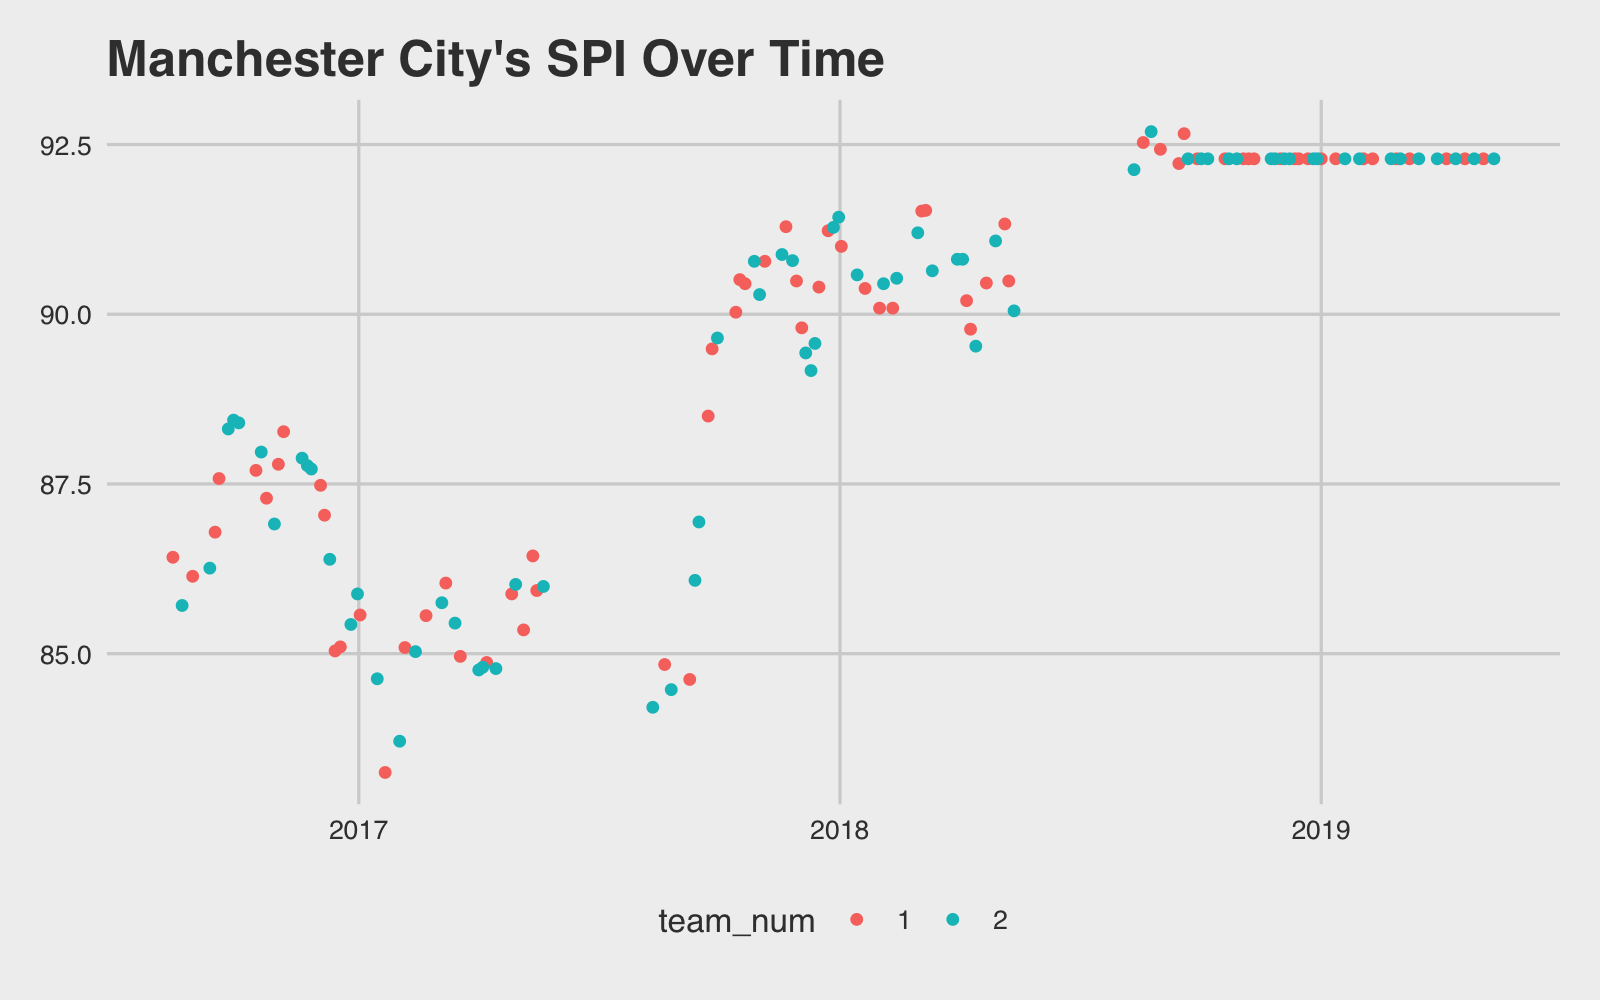
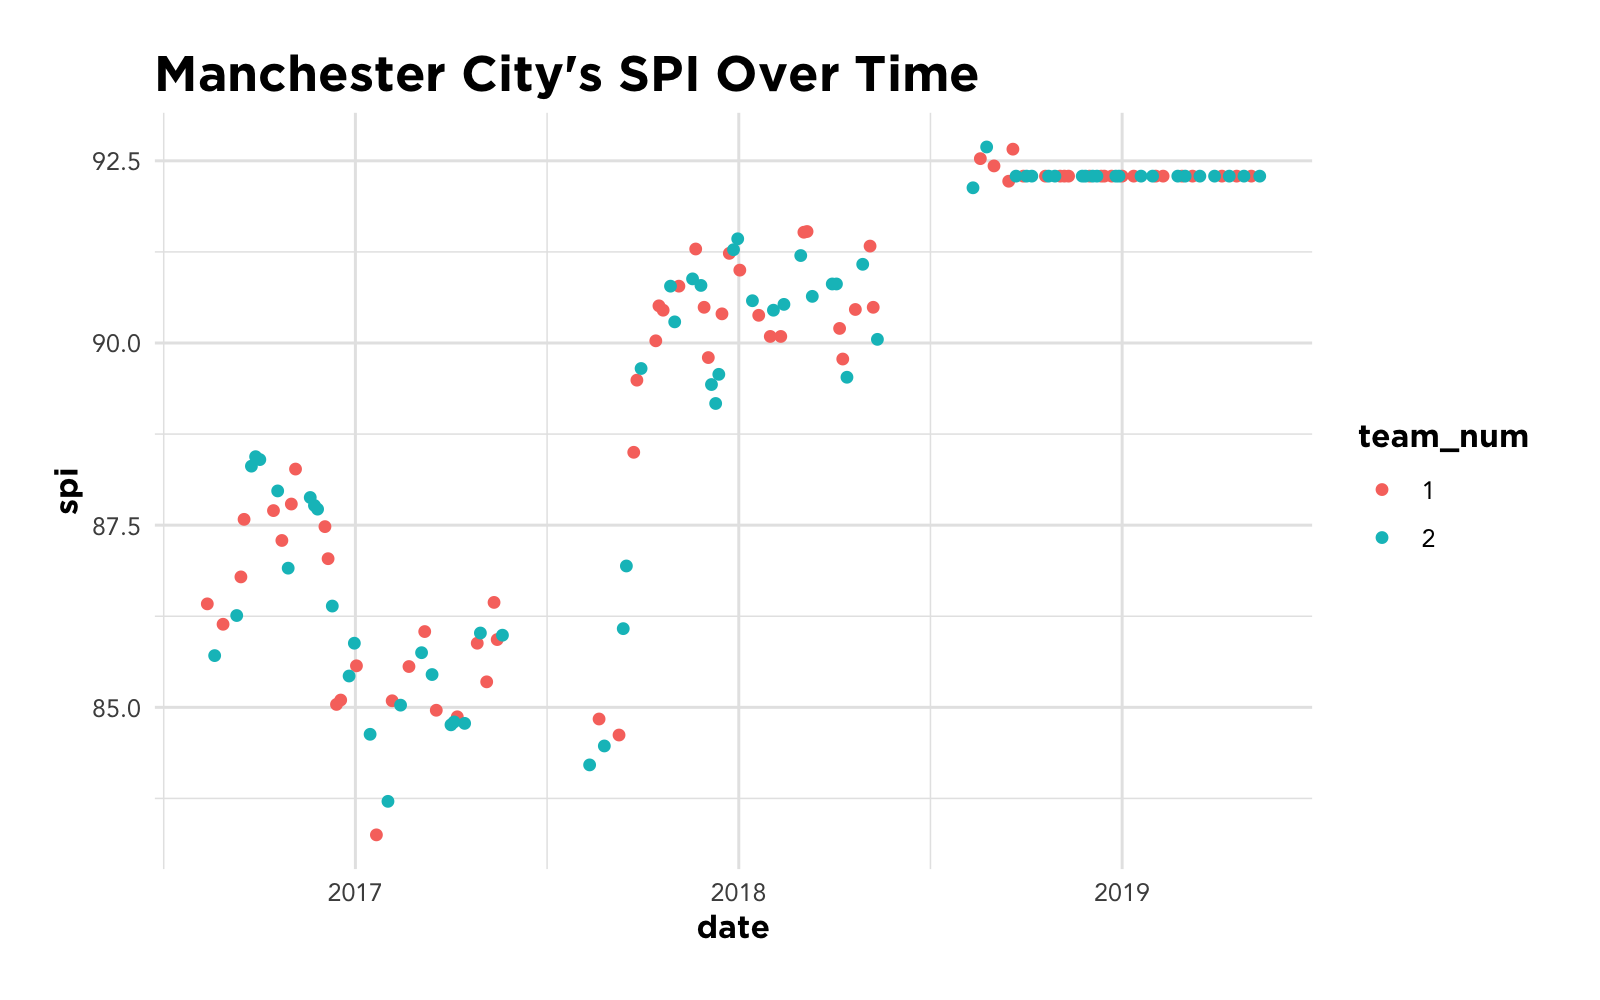
identifying under and overperformers

diff --git a/doc/matches.md b/doc/matches.md
@@ -9,6 +9,7 @@ library(tidymodels)
 library(expappr)
 library(ggthemes)
 library(lubridate)
+library(ggrepel)
 
 source("munge/helpers.R")
 ```
@@ -115,7 +116,7 @@ spi_matches %>%
   filter(team_num == spi_num, team == "Manchester City") %>% 
   ggplot(aes(date, spi)) +
   geom_point(aes(color = team_num)) +
-  theme_fivethirtyeight() +
+  theme_expapp() +
   ggtitle("Manchester City's SPI Over Time")
 ```
 
@@ -160,32 +161,23 @@ Given the nastiness cleaning with team numbers above, I'll probably want to crea
 
 
 ```r
-these_cols <- c("spi", "prob", "proj_score", "importance", "score", "xg", "nsxg", "adj_score")
+home_teams <- spi_matches %>%
+  select(-contains("2")) %>% 
+  mutate(home = 1)
 
-home_teams <- spi_matches %>% 
-  gather(key, val,team1:adj_score2) %>% 
-  mutate(team_num = str_remove_all(key, "[^0-9]"),
-         key_adj = str_remove_all(key, "[0-9]")) %>% 
-  filter(team_num == 1) %>% 
-  select(-team_num, -key) %>% 
-  spread(key_adj, val) %>% 
-  mutate(home = 1) %>% 
-  select(match_id, date, league, league_id, team, home, spi, prob, proj_score, importance, score, xg, nsxg, adj_score) %>% 
-  mutate_at(these_cols, as.double) %>% 
-  mutate(score = as.integer(score))
+names(home_teams) <- names(home_teams) %>% str_remove("[0-9]")
 
-away_teams <- spi_matches %>% 
-  gather(key, val,team1:adj_score2) %>% 
-  mutate(team_num = str_remove_all(key, "[^0-9]"),
-         key_adj = str_remove_all(key, "[0-9]")) %>% 
-  filter(team_num == 2) %>% 
-  select(-team_num, -key) %>% 
-  spread(key_adj, val) %>% 
-  mutate(home = 0) %>% 
-  select(match_id, date, league, league_id, team, home, spi, prob, proj_score, importance, score, xg, nsxg, adj_score) %>% 
-  mutate_at(these_cols, as.double) %>% 
-  mutate(score = as.integer(score))
+home_teams <- home_teams %>%
+  select(match_id, date, league, league_id, team, home, spi, prob, proj_score, importance, score, xg, nsxg, adj_score)
 
+away_teams <- spi_matches %>%
+  select(-contains("1")) %>% 
+  mutate(home = 0)
+
+names(away_teams) <- names(away_teams) %>% str_remove("[0-9]")
+
+away_teams <- away_teams %>%
+  select(match_id, date, league, league_id, team, home, spi, prob, proj_score, importance, score, xg, nsxg, adj_score)
 
 spi_matches_combined <- comb_home_away(home_teams, away_teams)
 
@@ -196,7 +188,7 @@ spi_matches %>%
   count(year, month) %>% 
   ggplot(aes(month, n)) +
   geom_col() +
-  theme_fivethirtyeight() +
+  theme_expapp() +
   ggtitle("Total Matches by Month") +
   scale_y_continuous(labels = scales::comma, name = "Num Matches")
 ```
@@ -318,11 +310,104 @@ season_results %>%
   ggtitle("Winning Team Margin of Victory by Season") +
   ylab("Margin of Victory - Points") + 
   xlab("Team") +
-  theme_fivethirtyeight() +
+  theme_expapp() +
   scale_fill_discrete(name = "In big league?")
 ```
 
 ![plot of chunk big_leagues](../graphs/matches//big_leagues-1.png)
+
+```r
+matches_past %>% 
+  group_by(league, season, home) %>% 
+  summarise(matches_played = n_distinct(match_id),
+            med_win_prob = median(prob),
+            mean_win_prob = mean(prob)) %>% 
+  filter(home == 1, matches_played > 25) %>% select(-home) %>% 
+  mutate(league_season = paste(league, season)) %>% 
+  ggplot(aes(matches_played, med_win_prob)) +
+  geom_jitter(aes(color = season),size = 5, alpha = 0.7) +
+  xlab("Matches Played") +
+  ylab("Median Home Win %") +
+  ggtitle("Expected Home Team Win Probability by Season") +
+  theme_expapp() +
+  scale_y_continuous(labels = scales::percent)
+```
+
+![plot of chunk win_prob_home](../graphs/matches//win_prob_home-1.png)
+
+```r
+matches_past %>% 
+  group_by(league, season, home) %>% 
+  summarise(matches_played = n_distinct(match_id),
+            med_win_prob = median(prob),
+            mean_win_prob = mean(prob)) %>% 
+  filter(home == 1, matches_played > 25) %>% select(-home) %>% 
+  mutate(league_season = paste(league, season)) %>% 
+  arrange(-med_win_prob) %>% 
+  head(10) %>% 
+  knitr::kable()
+```
+
+
+
+|league                         |season  | matches_played| med_win_prob| mean_win_prob|league_season                          |
+|:------------------------------|:-------|--------------:|------------:|-------------:|:--------------------------------------|
+|Major League Soccer            |2018-19 |             81|      0.52910|     0.5113531|Major League Soccer 2018-19            |
+|Major League Soccer            |2017-18 |            400|      0.50370|     0.5024210|Major League Soccer 2017-18            |
+|Major League Soccer            |2016-17 |            237|      0.49660|     0.4772966|Major League Soccer 2016-17            |
+|Brasileiro Série A             |2017-18 |            368|      0.48985|     0.4885329|Brasileiro Série A 2017-18             |
+|National Women's Soccer League |2016-17 |             74|      0.48905|     0.4491905|National Women's Soccer League 2016-17 |
+|Brasileiro Série A             |2018-19 |             92|      0.48765|     0.4960076|Brasileiro Série A 2018-19             |
+|Brasileiro Série A             |2016-17 |            169|      0.48320|     0.4877994|Brasileiro Série A 2016-17             |
+|Norwegian Tippeligaen          |2016-17 |            134|      0.47810|     0.4698963|Norwegian Tippeligaen 2016-17          |
+|Spanish Primera Division       |2017-18 |            380|      0.47680|     0.4852058|Spanish Primera Division 2017-18       |
+|Chinese Super League           |2018-19 |             65|      0.47670|     0.4598246|Chinese Super League 2018-19           |
+
+Interesting, seems like there is a bit of a trend with MLS and the Brasilian league, fivethirtyeight's model expects them to win at home more often than other leagues. Next I'll compare this to reality - do they actually win at home more often?
+
+
+```r
+matches_past %>% 
+  group_by(league, season, home) %>% 
+  summarise(matches_played = n_distinct(match_id),
+            med_win_prob = median(prob),
+            mean_win_prob = mean(prob),
+            actual_win_home = mean(match_result == "win")) %>% 
+  filter(home == 1, matches_played > 25) %>% 
+  mutate(act_less_exp = actual_win_home - med_win_prob) %>% 
+  ggplot(aes(act_less_exp)) +
+  geom_histogram(bins = 20, color = "white") +
+  theme_expapp() +
+  scale_x_continuous(labels = scales::percent, name = "Actual Win % minus expected win %") +
+  ylab("Count of League Seasons") +
+  ggtitle("Difference between Actual Home Win % and Expected", "By season, by league")
+```
+
+![plot of chunk unnamed-chunk-8](../graphs/matches//unnamed-chunk-8-1.png)
+
+```r
+matches_past %>% 
+  filter(!(season %in% unique(matches_future$season)), league %in% big_leagues) %>% 
+  mutate(league_season = paste(league, season)) %>% 
+  group_by(league_season, league, season, team) %>% 
+  summarise(matches_played = n_distinct(match_id),
+            expected_win_pct = mean(prob),
+            actual_win_pct = mean(match_result == "win")) %>% 
+  mutate(win_pct_diff = actual_win_pct - expected_win_pct) %>% 
+  filter(matches_played > 15) %>% 
+  #filter(league == "Barclays Premier League", season == "2017-18") %>% 
+  ggplot(aes(expected_win_pct, win_pct_diff, label = team)) +
+  geom_jitter(size = 3, alpha = 0.8) +
+  geom_text_repel() +
+  geom_hline(yintercept = 0, linetype = "dashed", color = "red") +
+  theme_expapp() +
+  scale_x_continuous(labels = scales::percent, name = "Expected Win %") +
+  scale_y_continuous(labels = scales::percent, name = "Actual - Expected") + 
+  ggtitle("Expected Win Pct vs Actual", "Overperformers above red line, underperformers below") +
+  facet_wrap(~ league_season, ncol = 2)
+```
+
+![plot of chunk perf_v_expected](../graphs/matches//perf_v_expected-1.png)
 
 
 ## Analysis Ideas
